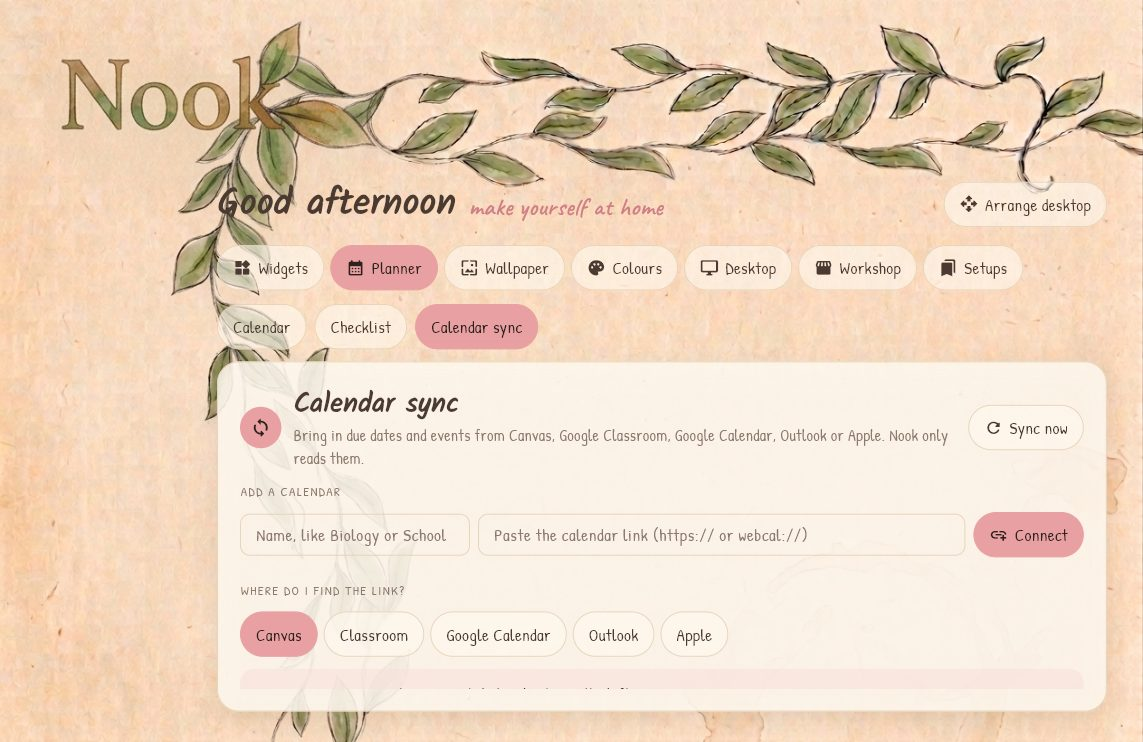
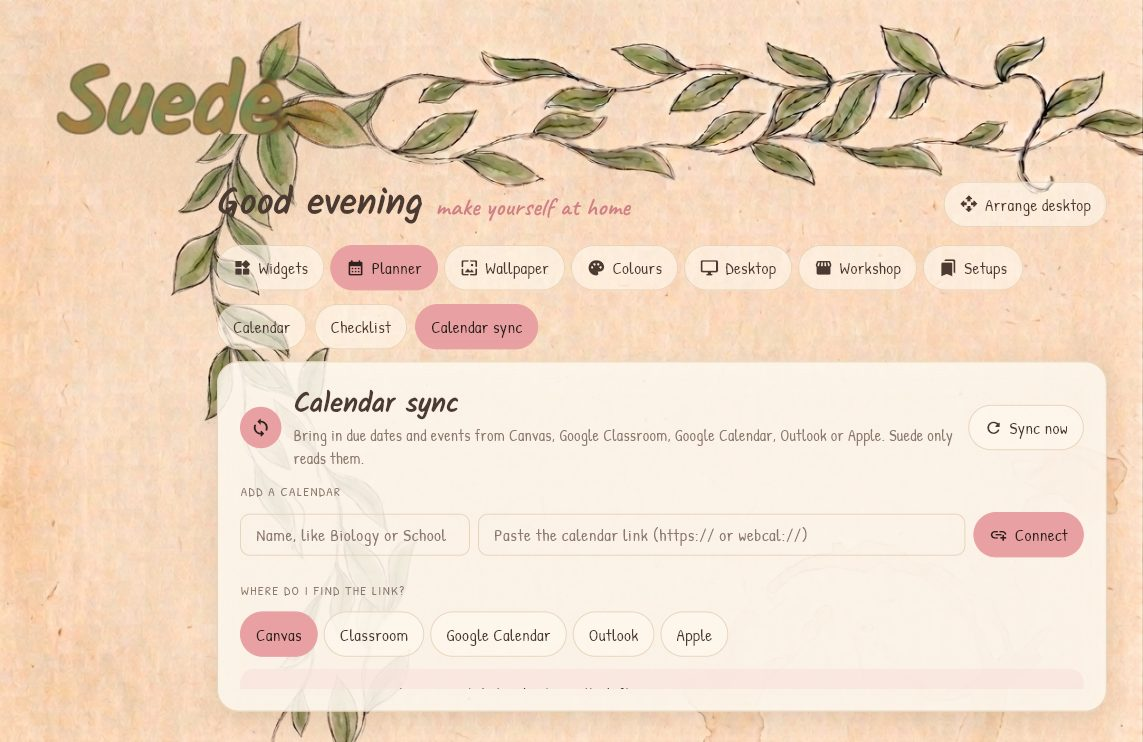
Rebrand the site from Nook to Suede
New name across every page, new screenshots and artwork, and the old name
removed from the two showcase photos.

Changed region(s): [[0.0306, 0.062, 0.2756, 0.186], [0.2756, 0.248, 0.5818, 0.31], [0.7962, 0.558, 0.8268, 0.6199]]

diff --git a/privacy.html b/privacy.html
@@ -1,11 +1,11 @@
 <!doctype html>
-<!-- Nook. Copyright (c) 2026 GKoni. All rights reserved. Made by Spy Pigeon Studios. -->
+<!-- Suede. Copyright (c) 2026 GKoni. All rights reserved. Made by Spy Pigeon Studios. -->
 <html lang="en">
 <head>
     <meta charset="utf-8">
     <meta name="viewport" content="width=device-width, initial-scale=1">
-    <title>Privacy Policy - Nook</title>
-    <meta name="description" content="What Nook and the Spy Pigeon Studios website do and don't collect.">
+    <title>Privacy Policy - Suede</title>
+    <meta name="description" content="What Suede and the Spy Pigeon Studios website do and don't collect.">
     <meta name="theme-color" content="#F6E7D5">
     <link rel="icon" href="favicon.ico">
     <link rel="apple-touch-icon" href="images/icon-180.png">
@@ -15,7 +15,7 @@
     <header class="top">
         <a class="brand" href="index.html">
             <img src="images/icon-64.png" alt="" width="32" height="32">
-            <span>Nook</span>
+            <span>Suede</span>
         </a>
         <nav>
             <a href="index.html#features">Features</a>
@@ -35,38 +35,38 @@
         <h1>Privacy Policy</h1>
         <p class="updated">Last updated 7 October 2026</p>
 
-        <p>This policy covers the Nook app and this website, spypigeonstudios.com, both made by GKoni (Spy Pigeon Studios). It explains what happens to your information when you use them.</p>
+        <p>This policy covers the Suede app and this website, spypigeonstudios.com, both made by GKoni (Spy Pigeon Studios). It explains what happens to your information when you use them.</p>
 
         <h2>In short</h2>
         <ul>
-            <li>The Nook app has no accounts, no adverts, no analytics and no tracking.</li>
+            <li>The Suede app has no accounts, no adverts, no analytics and no tracking.</li>
             <li>This website counts visits anonymously, without cookies, to see which pages and buttons people use.</li>
-            <li>Everything you set up in Nook stays on your computer.</li>
+            <li>Everything you set up in Suede stays on your computer.</li>
             <li>We never sell or share your information, and we don't collect anything that identifies you.</li>
         </ul>
 
-        <h2>The Nook app</h2>
+        <h2>The Suede app</h2>
         <h3>What stays on your computer</h3>
-        <p>Your settings, widgets, sticky notes, plans, checklists, saved setups, scrapbook photos, imported wallpapers, calendar links and log files are all saved on your own computer (in <code>%APPDATA%\Nook</code> on Windows, or <code>~/Library/Application Support/Nook</code> on a Mac). They are never sent to us. Delete that folder and they're gone.</p>
-        <p>The record player shows what your computer is already playing, such as Spotify or YouTube. Nook reads this from your computer's own media controls. It isn't recorded or sent anywhere.</p>
+        <p>Your settings, widgets, sticky notes, plans, checklists, saved setups, scrapbook photos, imported wallpapers, calendar links and log files are all saved on your own computer (in <code>%APPDATA%\Suede</code> on Windows, or <code>~/Library/Application Support/Suede</code> on a Mac). They are never sent to us. Delete that folder and they're gone.</p>
+        <p>The record player shows what your computer is already playing, such as Spotify or YouTube. Suede reads this from your computer's own media controls. It isn't recorded or sent anywhere.</p>
 
-        <h3>When Nook goes online</h3>
-        <p>Nook only connects to the internet to fetch things you ask it to:</p>
+        <h3>When Suede goes online</h3>
+        <p>Suede only connects to the internet to fetch things you ask it to:</p>
         <ul>
-            <li><strong>Wallpapers from a link.</strong> When you paste a link from YouTube, TikTok, Tenor, Giphy or another site, Nook downloads that video or picture, or plays it from that site. YouTube videos play through youtube-nocookie.com, YouTube's privacy-enhanced mode.</li>
-            <li><strong>Calendar sync.</strong> When you paste a calendar link (Canvas, Google Classroom, Google Calendar, Outlook or Apple Calendar), Nook downloads that calendar about every 30 minutes. It only reads it and never changes anything.</li>
-            <li><strong>Fonts.</strong> If a font isn't already on your computer, Nook downloads it from Google Fonts on GitHub.</li>
+            <li><strong>Wallpapers from a link.</strong> When you paste a link from YouTube, TikTok, Tenor, Giphy or another site, Suede downloads that video or picture, or plays it from that site. YouTube videos play through youtube-nocookie.com, YouTube's privacy-enhanced mode.</li>
+            <li><strong>Calendar sync.</strong> When you paste a calendar link (Canvas, Google Classroom, Google Calendar, Outlook or Apple Calendar), Suede downloads that calendar about every 30 minutes. It only reads it and never changes anything.</li>
+            <li><strong>Fonts.</strong> If a font isn't already on your computer, Suede downloads it from Google Fonts on GitHub.</li>
         </ul>
         <p>Like any download, these sites can see your computer's internet address and the request. What they do with it is covered by their own privacy policies: <a href="https://policies.google.com/privacy" target="_blank" rel="noopener">Google and YouTube</a>, <a href="https://www.tiktok.com/legal/privacy-policy" target="_blank" rel="noopener">TikTok</a>, <a href="https://tenor.com/legal-privacy" target="_blank" rel="noopener">Tenor</a>, <a href="https://giphy.com/privacy" target="_blank" rel="noopener">Giphy</a>, <a href="https://docs.github.com/site-policy/privacy-policies/github-general-privacy-statement" target="_blank" rel="noopener">GitHub</a>, and your school's or calendar provider's own policy.</p>
 
         <h3>The Workshop</h3>
-        <p>Widgets, wallpapers and setups you share are plain files that you send yourself. Nook doesn't upload them anywhere. Shared widgets run in a locked sandbox and can't reach your files.</p>
+        <p>Widgets, wallpapers and setups you share are plain files that you send yourself. Suede doesn't upload them anywhere. Shared widgets run in a locked sandbox and can't reach your files.</p>
 
         <h3>Tester copies</h3>
         <p>Tester copies check, on your computer only, that they are being used by the person they were made for. When you sign the Tester Agreement, your name, the date and a code made from your computer's ID are saved inside your copy. None of this is sent to us.</p>
 
         <h3>Steam</h3>
-        <p>When Nook is on Steam, Valve handles your Steam account, purchases and downloads under the <a href="https://store.steampowered.com/privacy_agreement/" target="_blank" rel="noopener">Steam Privacy Policy</a>. We don't get your payment details.</p>
+        <p>When Suede is on Steam, Valve handles your Steam account, purchases and downloads under the <a href="https://store.steampowered.com/privacy_agreement/" target="_blank" rel="noopener">Steam Privacy Policy</a>. We don't get your payment details.</p>
 
         <h2>This website</h2>
         <p>This website has no cookies, no adverts and no forms. It's hosted on GitHub Pages, which keeps standard server logs such as your internet address for security, under <a href="https://docs.github.com/site-policy/privacy-policies/github-general-privacy-statement" target="_blank" rel="noopener">GitHub's privacy statement</a>. We don't see or use those logs.</p>
@@ -79,13 +79,13 @@
         <p>Photos in the <a href="showcase.html">setup exhibit</a> are only shown with the permission of the person who shared them, along with the name they chose (or no name). If a photo of yours is up and you'd like it changed or taken down, ask us on Discord and we'll remove it.</p>
 
         <h2>Children</h2>
-        <p>Nook and this website don't collect personal information from anyone, including children under 13. Discord requires its users to be at least 13. Tester copies ask testers under 18 to read the Tester Agreement with a parent or guardian.</p>
+        <p>Suede and this website don't collect personal information from anyone, including children under 13. Discord requires its users to be at least 13. Tester copies ask testers under 18 to read the Tester Agreement with a parent or guardian.</p>
 
         <h2>Your rights</h2>
         <p>Depending on where you live (for example under the GDPR, UK GDPR or California law), you may have the right to ask what information we hold about you, and to have it corrected or deleted. Because our visitor statistics are anonymous and we don't collect personal information, there's normally nothing to hand over, but you can always ask.</p>
 
         <h2>Changes</h2>
-        <p>If this policy changes, the new version will be posted here with a new date. If Nook ever starts collecting anything, we'll say so clearly here first.</p>
+        <p>If this policy changes, the new version will be posted here with a new date. If Suede ever starts collecting anything, we'll say so clearly here first.</p>
 
         <h2>Contact</h2>
         <p>Questions, privacy requests or photo takedowns: message us on the <a href="https://discord.gg/Z22ZAXCTtA" target="_blank" rel="noopener">Spy Pigeon Studios Discord</a>.</p>
@@ -93,7 +93,7 @@
 
     <footer>
         <p class="script">thanks for stopping by</p>
-        <p>Nook &copy; 2026 GKoni. All rights reserved. Made by Spy Pigeon Studios.</p>
+        <p>Suede &copy; 2026 GKoni. All rights reserved. Made by Spy Pigeon Studios.</p>
         <p class="small"><a href="privacy.html">Privacy</a> · <a href="legal.html">Legal and credits</a></p>
     </footer>
     <script src="analytics.js"></script>

diff --git a/index.html b/index.html
@@ -1,12 +1,12 @@
 <!doctype html>
-<!-- Nook. Copyright (c) 2026 GKoni. All rights reserved. Made by Spy Pigeon Studios. -->
+<!-- Suede. Copyright (c) 2026 GKoni. All rights reserved. Made by Spy Pigeon Studios. -->
 <html lang="en">
 <head>
     <meta charset="utf-8">
     <meta name="viewport" content="width=device-width, initial-scale=1">
-    <title>Nook - a cosy little room for your desktop</title>
-    <meta name="description" content="Nook turns your Windows desktop into a cosy little room: a live wallpaper behind your icons, widgets that sit right on it, sticky notes, and your school calendar. Coming to Steam.">
-    <meta property="og:title" content="Nook - a cosy little room for your desktop">
+    <title>Suede - a cosy little room for your desktop</title>
+    <meta name="description" content="Suede turns your Windows desktop into a cosy little room: a live wallpaper behind your icons, widgets that sit right on it, sticky notes, and your school calendar. Coming to Steam.">
+    <meta property="og:title" content="Suede - a cosy little room for your desktop">
     <meta property="og:description" content="Live wallpapers, widgets, sticky notes and your school calendar, right on your Windows desktop. Coming to Steam.">
     <meta property="og:image" content="https://spypigeonstudios.com/images/desk-halloween.jpg">
     <meta property="og:url" content="https://spypigeonstudios.com/">
@@ -20,7 +20,7 @@
     <header class="top">
         <a class="brand" href="#">
             <img src="images/icon-64.png" alt="" width="32" height="32">
-            <span>Nook</span>
+            <span>Suede</span>
         </a>
         <nav>
             <a href="#features">Features</a>
@@ -40,7 +40,7 @@
         <canvas id="leaves" aria-hidden="true"></canvas>
         <div class="hero-words">
             <p class="script">make yourself at home</p>
-            <h1>Nook</h1>
+            <h1>Suede</h1>
             <p class="lead">A cosy little room for your Windows desktop. A live wallpaper behind your icons, widgets that sit right on it, and sticky notes you can scribble on.</p>
             <div class="actions">
                 <span class="badge">Coming to Steam in 2026</span>
@@ -55,7 +55,7 @@
 
     <section id="features" class="band">
         <h2>Everything you need, nothing you don't</h2>
-        <p class="intro">Nook stays light and quiet in the background. Switch any part on or off, and change the colours, fonts and size of everything.</p>
+        <p class="intro">Suede stays light and quiet in the background. Switch any part on or off, and change the colours, fonts and size of everything.</p>
         <div class="cards">
             <article class="card">
                 <h3>Live wallpaper</h3>
@@ -75,7 +75,7 @@
             </article>
             <article class="card">
                 <h3>The Workshop</h3>
-                <p>Build your own widgets and wallpapers right inside Nook, and share them with friends. Every widget runs in a safe sandbox.</p>
+                <p>Build your own widgets and wallpapers right inside Suede, and share them with friends. Every widget runs in a safe sandbox.</p>
             </article>
             <article class="card">
                 <h3>Wobbly windows</h3>
@@ -86,7 +86,7 @@
 
     <section id="seasons" class="band soft">
         <h2>A scene for every season</h2>
-        <p class="intro">Hand-made scenes in Nook's warm colours, with something gently moving in each one.</p>
+        <p class="intro">Hand-made scenes in Suede's warm colours, with something gently moving in each one.</p>
         <div class="tabs" role="tablist">
             <button class="tab on" data-scene="halloween" role="tab" aria-selected="true">Halloween night</button>
             <button class="tab" data-scene="autumn" role="tab" aria-selected="false">Autumn hills</button>
@@ -107,31 +107,31 @@
             <ul class="ticks">
                 <li>Paste one private link, no sign-in needed</li>
                 <li>Checks for new homework every 30 minutes</li>
-                <li>Nook only reads your calendar, it never changes it</li>
+                <li>Suede only reads your calendar, it never changes it</li>
                 <li>Your links stay on your PC</li>
             </ul>
         </div>
         <figure class="screen tilt-left">
             <span class="tape"></span>
-            <img src="images/app-sync.jpg" alt="The Calendar sync page in the Nook window" width="1143" height="742" loading="lazy">
+            <img src="images/app-sync.jpg" alt="The Calendar sync page in the Suede window" width="1143" height="742" loading="lazy">
         </figure>
     </section>
 
     <section class="band soft split flip">
         <figure class="screen tilt-right">
             <span class="tape"></span>
-            <img src="images/app-notes.jpg" alt="The Nook window with a blue sticky note being edited" width="1143" height="742" loading="lazy">
+            <img src="images/app-notes.jpg" alt="The Suede window with a blue sticky note being edited" width="1143" height="742" loading="lazy">
         </figure>
         <div>
             <h2>Make it yours</h2>
             <p>Every widget has its own card colour, corners, font, size and rotation. Save the whole look as a setup and switch between them, like a cosy study corner for school days and a quiet one for weekends.</p>
-            <p>A short welcome tour sets everything up the first time you open Nook.</p>
+            <p>A short welcome tour sets everything up the first time you open Suede.</p>
         </div>
     </section>
 
     <section class="band showcase-teaser">
         <h2>See what people have made</h2>
-        <p class="intro">Real desktops, set up by people using Nook.</p>
+        <p class="intro">Real desktops, set up by people using Suede.</p>
         <p class="center"><a class="button" href="showcase.html">Visit the setup exhibit</a></p>
     </section>
 
@@ -139,12 +139,12 @@
         <h2>Questions</h2>
         <div class="faq">
             <details>
-                <summary>When can I get Nook?</summary>
-                <p>Nook is coming to Steam in 2026. It is being tested by a small group right now.</p>
+                <summary>When can I get Suede?</summary>
+                <p>Suede is coming to Steam in 2026. It is being tested by a small group right now.</p>
             </details>
             <details>
                 <summary>How much will it cost?</summary>
-                <p>Nook will be a paid app on Steam. The price will be shared closer to launch.</p>
+                <p>Suede will be a paid app on Steam. The price will be shared closer to launch.</p>
             </details>
             <details>
                 <summary>Which computers does it work on?</summary>
@@ -152,7 +152,7 @@
             </details>
             <details>
                 <summary>Will it slow my computer down?</summary>
-                <p>Nook is built to stay light. It can also pause the wallpaper while a game or full-screen app is open.</p>
+                <p>Suede is built to stay light. It can also pause the wallpaper while a game or full-screen app is open.</p>
             </details>
             <details>
                 <summary>Are Workshop widgets safe?</summary>
@@ -163,8 +163,8 @@
 
     <footer>
         <p class="script">thanks for stopping by</p>
-        <p>Nook &copy; 2026 GKoni. All rights reserved. Made by Spy Pigeon Studios.</p>
-        <p class="small">Steam is a trademark of Valve Corporation. Discord is a trademark of Discord Inc. Windows is a trademark of Microsoft, and Mac of Apple. Nook isn't affiliated with them. Fonts: Kalam, Patrick Hand and Caveat, under the SIL Open Font License.</p>
+        <p>Suede &copy; 2026 GKoni. All rights reserved. Made by Spy Pigeon Studios.</p>
+        <p class="small">Steam is a trademark of Valve Corporation. Discord is a trademark of Discord Inc. Windows is a trademark of Microsoft, and Mac of Apple. Suede isn't affiliated with them. Fonts: Kalam, Patrick Hand and Caveat, under the SIL Open Font License.</p>
         <p class="small"><a href="privacy.html">Privacy</a> · <a href="legal.html">Legal and credits</a></p>
     </footer>
 

diff --git a/legal.html b/legal.html
@@ -1,11 +1,11 @@
 <!doctype html>
-<!-- Nook. Copyright (c) 2026 GKoni. All rights reserved. Made by Spy Pigeon Studios. -->
+<!-- Suede. Copyright (c) 2026 GKoni. All rights reserved. Made by Spy Pigeon Studios. -->
 <html lang="en">
 <head>
     <meta charset="utf-8">
     <meta name="viewport" content="width=device-width, initial-scale=1">
-    <title>Legal and credits - Nook</title>
-    <meta name="description" content="Copyright, trademarks, open-source credits and terms for Nook and spypigeonstudios.com.">
+    <title>Legal and credits - Suede</title>
+    <meta name="description" content="Copyright, trademarks, open-source credits and terms for Suede and spypigeonstudios.com.">
     <meta name="theme-color" content="#F6E7D5">
     <link rel="icon" href="favicon.ico">
     <link rel="apple-touch-icon" href="images/icon-180.png">
@@ -15,7 +15,7 @@
     <header class="top">
         <a class="brand" href="index.html">
             <img src="images/icon-64.png" alt="" width="32" height="32">
-            <span>Nook</span>
+            <span>Suede</span>
         </a>
         <nav>
             <a href="index.html#features">Features</a>
@@ -36,31 +36,31 @@
         <p class="updated">Last updated 7 October 2026</p>
 
         <h2>Copyright</h2>
-        <p>Nook, including its code, artwork, scenes, designs and text, and this website are copyright &copy; 2026 GKoni (Spy Pigeon Studios). All rights reserved.</p>
-        <p>Nook is licensed, not sold. You may use a copy you got from an official source, such as Steam, for your own personal use. You may not copy, share, resell or redistribute it, get around its licence checks or copy protection, or reverse engineer it, except where the law allows. The full licence comes with the app in the <code>LICENSE</code> file.</p>
-        <p>Tester copies are also covered by the Nook Tester Agreement, which testers sign when they first open their copy.</p>
+        <p>Suede, including its code, artwork, scenes, designs and text, and this website are copyright &copy; 2026 GKoni (Spy Pigeon Studios). All rights reserved.</p>
+        <p>Suede is licensed, not sold. You may use a copy you got from an official source, such as Steam, for your own personal use. You may not copy, share, resell or redistribute it, get around its licence checks or copy protection, or reverse engineer it, except where the law allows. The full licence comes with the app in the <code>LICENSE</code> file.</p>
+        <p>Tester copies are also covered by the Suede Tester Agreement, which testers sign when they first open their copy.</p>
 
         <h2>Using this website</h2>
         <p>You're welcome to browse, link to and share pages from this site. Please don't copy its artwork, screenshots or text to use somewhere else without asking.</p>
-        <p>This site and its content are provided as they are. We try to keep everything accurate, but details such as features, platforms and release dates can change before Nook launches.</p>
+        <p>This site and its content are provided as they are. We try to keep everything accurate, but details such as features, platforms and release dates can change before Suede launches.</p>
 
         <h2>Setup photos</h2>
         <p>Photos in the <a href="showcase.html">setup exhibit</a> belong to the people who took them and are shown with their permission. They aren't covered by our copyright and may not be reused without the owner's permission. To have a photo of yours changed or removed, or to report one you think shouldn't be there, message us on the <a href="https://discord.gg/Z22ZAXCTtA" target="_blank" rel="noopener">Spy Pigeon Studios Discord</a>.</p>
-        <p>Wallpapers that people add to Nook themselves, such as videos, GIFs and pictures from other sites, belong to their owners. Nook only plays what the user chooses.</p>
+        <p>Wallpapers that people add to Suede themselves, such as videos, GIFs and pictures from other sites, belong to their owners. Suede only plays what the user chooses.</p>
 
         <h2>Trademarks</h2>
-        <p>Nook and Spy Pigeon Studios are names used by GKoni. Steam is a trademark of Valve Corporation. Discord and the Discord logo are trademarks of Discord Inc. Windows is a trademark of Microsoft Corporation. Mac and macOS are trademarks of Apple Inc. YouTube and Google are trademarks of Google LLC. TikTok, Tenor, Giphy, Spotify, Canvas, Google Classroom and Outlook belong to their owners. Nook isn't made by, endorsed by or affiliated with any of these companies.</p>
+        <p>Suede and Spy Pigeon Studios are names used by GKoni. Steam is a trademark of Valve Corporation. Discord and the Discord logo are trademarks of Discord Inc. Windows is a trademark of Microsoft Corporation. Mac and macOS are trademarks of Apple Inc. YouTube and Google are trademarks of Google LLC. TikTok, Tenor, Giphy, Spotify, Canvas, Google Classroom and Outlook belong to their owners. Suede isn't made by, endorsed by or affiliated with any of these companies.</p>
 
         <h2>Open-source credits</h2>
-        <p>Nook and this website are built with open-source software and fonts. Thank you to everyone who makes them.</p>
+        <p>Suede and this website are built with open-source software and fonts. Thank you to everyone who makes them.</p>
         <ul>
             <li><strong>Fonts:</strong> Kalam, Patrick Hand and Caveat, under the <a href="https://openfontlicense.org" target="_blank" rel="noopener">SIL Open Font License 1.1</a>. The licence texts are in this site's <code>fonts</code> folder and in the app.</li>
             <li><strong>In the app:</strong> Python, Flet and Flutter, pywebview, Pillow, cryptography, psutil, pythonnet, WinRT for Python, PyObjC and PyInstaller, each under its own licence (such as MIT, BSD, Apache 2.0 or the PSF licence).</li>
         </ul>
-        <p>The full copyright notices and licence texts for everything Nook includes come with the app, in the <code>THIRD_PARTY_NOTICES.txt</code> file next to Nook.</p>
+        <p>The full copyright notices and licence texts for everything Suede includes come with the app, in the <code>THIRD_PARTY_NOTICES.txt</code> file next to Suede.</p>
 
         <h2>Privacy</h2>
-        <p>See the <a href="privacy.html">Privacy Policy</a>. In short, Nook and this site don't collect your personal information. The site counts visits anonymously, without cookies.</p>
+        <p>See the <a href="privacy.html">Privacy Policy</a>. In short, Suede and this site don't collect your personal information. The site counts visits anonymously, without cookies.</p>
 
         <h2>Contact</h2>
         <p>For anything legal, including licensing questions and takedown requests, message us on the <a href="https://discord.gg/Z22ZAXCTtA" target="_blank" rel="noopener">Spy Pigeon Studios Discord</a>.</p>
@@ -68,7 +68,7 @@
 
     <footer>
         <p class="script">thanks for stopping by</p>
-        <p>Nook &copy; 2026 GKoni. All rights reserved. Made by Spy Pigeon Studios.</p>
+        <p>Suede &copy; 2026 GKoni. All rights reserved. Made by Spy Pigeon Studios.</p>
         <p class="small"><a href="privacy.html">Privacy</a> · <a href="legal.html">Legal and credits</a></p>
     </footer>
     <script src="analytics.js"></script>

diff --git a/showcase.html b/showcase.html
@@ -1,13 +1,13 @@
 <!doctype html>
-<!-- Nook. Copyright (c) 2026 GKoni. All rights reserved. Made by Spy Pigeon Studios. -->
+<!-- Suede. Copyright (c) 2026 GKoni. All rights reserved. Made by Spy Pigeon Studios. -->
 <html lang="en">
 <head>
     <meta charset="utf-8">
     <meta name="viewport" content="width=device-width, initial-scale=1">
-    <title>Made with Nook - the setup exhibit</title>
-    <meta name="description" content="Real desktops made cosy with Nook, shared by the people who use it.">
-    <meta property="og:title" content="Made with Nook - the setup exhibit">
-    <meta property="og:description" content="Real desktops made cosy with Nook, shared by the people who use it.">
+    <title>Made with Suede - the setup exhibit</title>
+    <meta name="description" content="Real desktops made cosy with Suede, shared by the people who use it.">
+    <meta property="og:title" content="Made with Suede - the setup exhibit">
+    <meta property="og:description" content="Real desktops made cosy with Suede, shared by the people who use it.">
     <meta property="og:image" content="https://spypigeonstudios.com/images/desk-autumn.jpg">
     <meta property="og:url" content="https://spypigeonstudios.com/showcase.html">
     <meta name="twitter:card" content="summary_large_image">
@@ -20,7 +20,7 @@
     <header class="top">
         <a class="brand" href="index.html">
             <img src="images/icon-64.png" alt="" width="32" height="32">
-            <span>Nook</span>
+            <span>Suede</span>
         </a>
         <nav>
             <a href="index.html#features">Features</a>
@@ -37,8 +37,8 @@
 
     <section class="band exhibit-head">
         <p class="script">the setup exhibit</p>
-        <h1>Made with Nook</h1>
-        <p class="intro">Real desktops, made cosy by the people who use Nook. Every photo here was shared with us by its owner.</p>
+        <h1>Made with Suede</h1>
+        <p class="intro">Real desktops, made cosy by the people who use Suede. Every photo here was shared with us by its owner.</p>
     </section>
 
     <section class="band soft exhibit">
@@ -59,7 +59,7 @@
 
     <footer>
         <p class="script">thanks for stopping by</p>
-        <p>Nook &copy; 2026 GKoni. All rights reserved. Made by Spy Pigeon Studios.</p>
+        <p>Suede &copy; 2026 GKoni. All rights reserved. Made by Spy Pigeon Studios.</p>
         <p class="small">Setup photos belong to the people who shared them and are shown with their permission.</p>
         <p class="small"><a href="privacy.html">Privacy</a> · <a href="legal.html">Legal and credits</a></p>
     </footer>

diff --git a/showcase.js b/showcase.js
@@ -12,7 +12,7 @@ function credit(photo) {
 
 function open(photo) {
     viewerImg.src = photo.file;
-    viewerImg.alt = photo.alt || photo.caption || "A desktop set up with Nook";
+    viewerImg.alt = photo.alt || photo.caption || "A desktop set up with Suede";
     viewerCaption.textContent = [photo.caption, credit(photo)].filter(Boolean).join(" · ");
     viewer.showModal();
 }
@@ -27,7 +27,7 @@ function pin(photo, index) {
     tape.className = "tape";
     const img = document.createElement("img");
     img.src = photo.file;
-    img.alt = photo.alt || photo.caption || "A desktop set up with Nook";
+    img.alt = photo.alt || photo.caption || "A desktop set up with Suede";
     img.loading = "lazy";
     card.append(tape, img);
 
